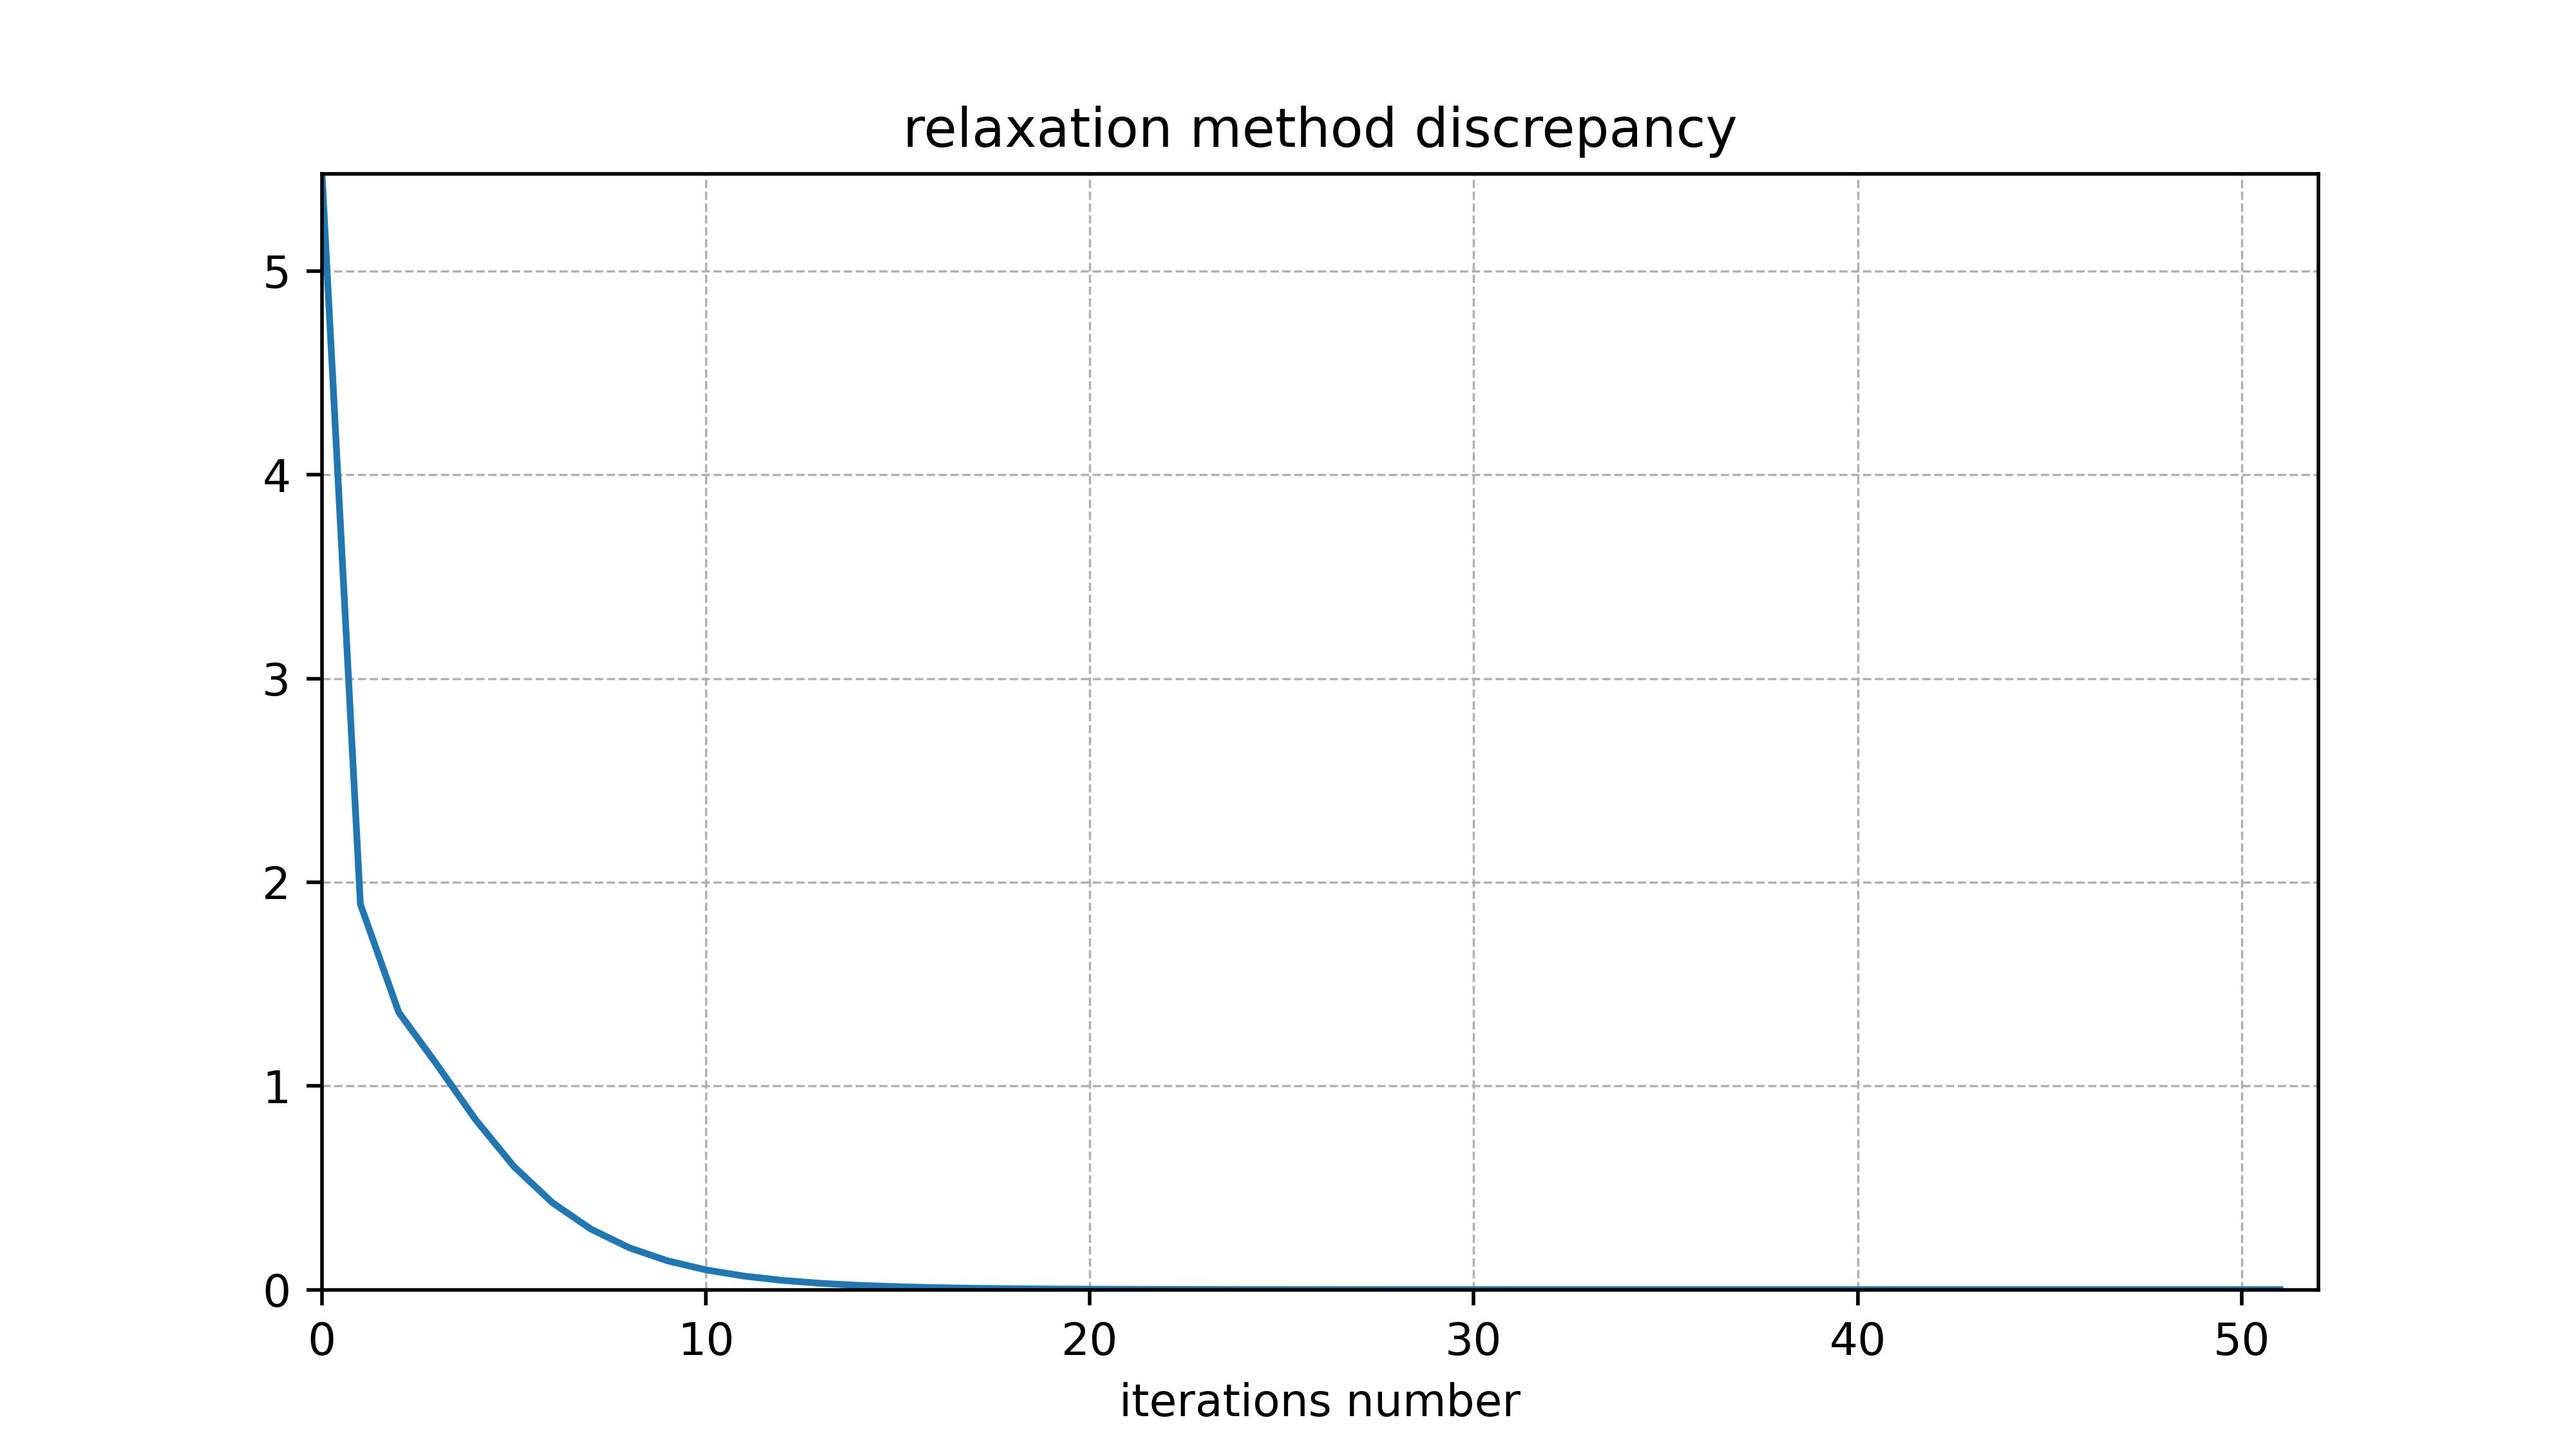
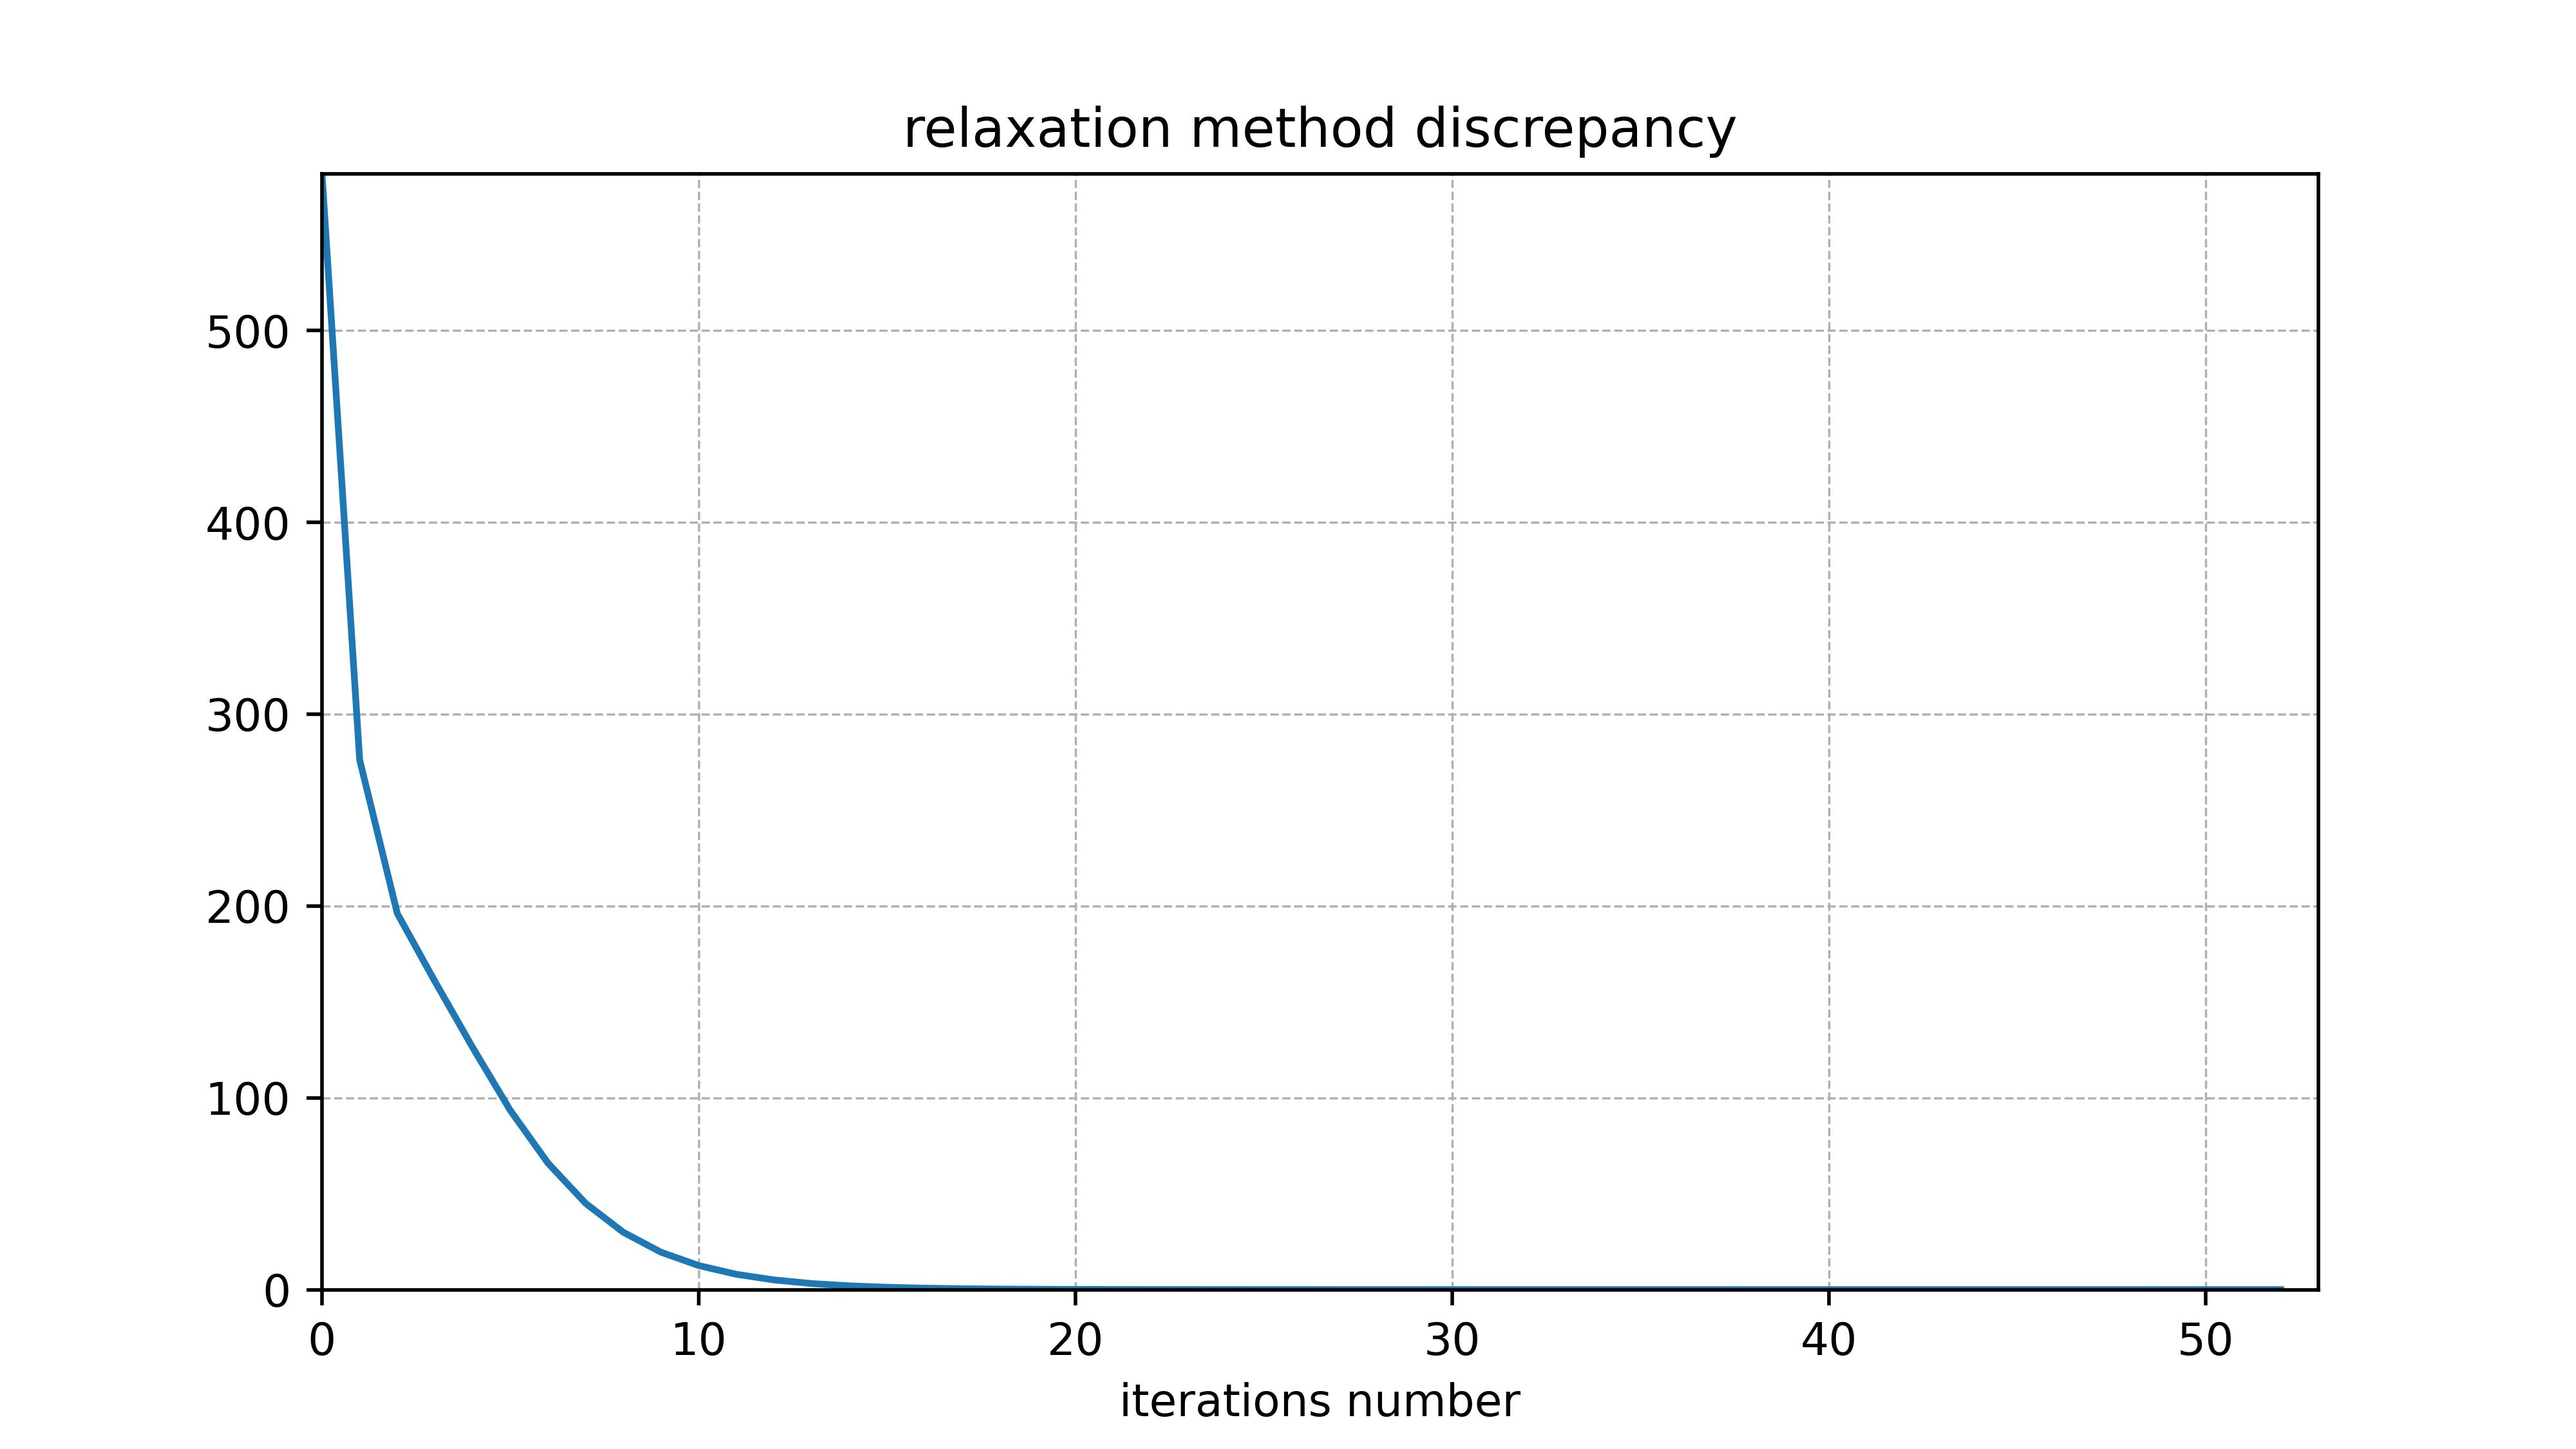
Lab2: Fixed bugs. Added README

diff --git a/lab2/succ_over_relaxation.py b/lab2/succ_over_relaxation.py
@@ -4,7 +4,7 @@ from scipy import linalg
 from matrix_init import _initMatrix_, _initValue_, m_getErrorMatrixNorm,\
                         builPlot
 
-residual_convergence = 1e-8
+SIGMA = 1e-8
 
 def sor_solver(A, b, omega, initial_guess, convergence_criteria):
     """
@@ -20,7 +20,8 @@ def sor_solver(A, b, omega, initial_guess, convergence_criteria):
     """
     step = 0
     phi = initial_guess[:]
-    residual = linalg.norm(A @ phi - b)  # Initial residual
+    
+    residual = m_getErrorMatrixNorm(A, initial_guess, b)#linalg.norm(A @ phi - b)  # Initial residual
     
     all_errors_list = []
     
@@ -53,7 +54,9 @@ b = np.array(_initValue_())
 
 initial_guess = np.zeros_like(b, np.float_)
 
-phi = sor_solver(A, b, omega, initial_guess, residual_convergence)
-print(phi)
+phi = sor_solver(A, b, omega, initial_guess, SIGMA)
+
+print(f"Solution: {phi}")
+print(f'error value:{m_getErrorMatrixNorm(A, phi, b)}')
 
 

diff --git a/lab2/seidel_method.py b/lab2/seidel_method.py
@@ -4,6 +4,8 @@ import matplotlib.pyplot as plt
 from matrix_init import _initMatrix_, _initValue_, m_getErrorMatrixNorm,\
                         builPlot
 
+SIGMA = 1e-8
+
 ITERATION_LIMIT = 1000
 
 all_errors_list = []
@@ -33,7 +35,8 @@ for it_count in range(1, ITERATION_LIMIT):
         s2 = np.dot(A[i, i + 1 :], x[i + 1 :])
         x_new[i] = (b[i] - s1 - s2) / A[i, i]
     
-    if np.allclose(x, x_new, rtol=1e-8):
+    #if np.allclose(x, x_new, SIGMA=1e-8):
+    if m_getErrorMatrixNorm(A, x, b) <= SIGMA:
         break
     
     x = x_new
@@ -48,5 +51,4 @@ plt.show()
 builPlot(all_errors_list, 'seidel')
 
 print(f"Solution: {x}")
-error = np.dot(A, x) - b
-print(f'error value:{error}')
+print(f'error value:{m_getErrorMatrixNorm(A, x, b)}')

diff --git a/lab2/jacobi_method.py b/lab2/jacobi_method.py
@@ -4,6 +4,8 @@ import matplotlib.pyplot as plt
 from matrix_init import _initMatrix_, _initValue_
 from matrix_init import m_getErrorMatrixNorm, builPlot
 
+SIGMA = 1e-8
+
 ITERATION_LIMIT = 1000
 
 all_errors_list = []
@@ -36,7 +38,8 @@ for it_count in range(ITERATION_LIMIT):
         if x_new[i] == x_new[i-1]:
           break
 
-    if np.allclose(x, x_new, atol=1e-8, rtol=0.):
+    #if np.allclose(x, x_new, atol=1e-8, rtol=0.):
+    if m_getErrorMatrixNorm(A, x, b) <= SIGMA:
         break
 
     x = x_new
@@ -51,7 +54,6 @@ plt.show()
 builPlot(all_errors_list, 'jacobi')
 
 print(f"Solution: {x}")
-error = np.dot(A, x) - b
-print(f'error value:{error}')
+print(f'error value:{m_getErrorMatrixNorm(A, x, b)}')
 
 

diff --git a/lab2/matrix_init.py b/lab2/matrix_init.py
@@ -9,7 +9,7 @@ def DEBUG(param, description='NULL'):
 def setAllZero(matrix, n, ind):
     matrix[ind].extend([0]*(n-ind-1))
 
-def _initMatrix_(n=3, a=1, b=5, c=1, p=1):
+def _initMatrix_(n=99, a=1, b=10, c=1, p=1):
     matrix = []
     
     for ind in range( n ):
@@ -27,10 +27,10 @@ def _initMatrix_(n=3, a=1, b=5, c=1, p=1):
     
     return matrix
 
-def _initValue_(n=3):
+def _initValue_(n=99):
     return [ ind+1 for ind in range( n+1 )]
 
-def initMatrix(n=3, a=1, b=5, c=1, p=1):
+def initMatrix(n=99, a=1, b=10, c=1, p=1):
     
     matrix = _initMatrix_(n, a, b, c, p)
     

diff --git a/lab2/README.md b/lab2/README.md
@@ -1,7 +1,62 @@
+# Report of 2nd Laboratory
+"***This world is like an unsolved linear equation – if you calculate the values of all variables, randomness will turn out to be a pattern.***" - Nika Ostozheva.
 
-# Lab2: matrix solving
-install `scipy`
-
+## Warning
+Before using install `scipy`
 ```
 pip install scipy
 ```
+
+## Methodology
+
+Various methods can be used to solve linear equations, and methods are given in this paper:
+
+The accuracy criterion for all iterative methods is selected as $1 \cdot 10^{-8}$.
+
+This work also uses Gauss and LU decomposition methods.
+
+#### System of equations:
+
+$$
+\begin{cases} 
+b_1 x_1 + c_1 x_2 = f_1 \\
+a_2 x_1 + b_2 x_2 + c_2 x_3 = f_2 \\
+a_3 x_1 + b_3 x_2 + c_3 x_3 = f_3 \\
+... \\
+a_n x_{n-1} + b_n x_n + c_n x_{n+1} = f_n \\
+p_1 x_1 + ... + p_{n+1} x_{n+1} = f_{n+1} \\
+\begin{cases}
+n = 99 \\
+a_i = c_i = 1 \\
+b_i = 10 \\
+p_i = 1 \\
+f_i = i
+\end{cases}
+\end{cases}
+$$
+
+#### Conclusion:
+Error values
+
+| Method     |             Error rate              | Iteration number |
+| :--------- | :---------------------------------: | :--------------: |
+| Gauss      | $\sigma_G    = 1.01 \cdot 10^{-13}$ |        1         |
+| LU         | $\sigma_{LU} = 7.36 \cdot 10^{-14}$ |        1         |
+| Seidel     | $\sigma_{S}  = 4.86 \cdot 10^{-9}$  |        13        |
+| Jacobi     | $\sigma_{J}  = 8.87 \cdot 10^{-9}$  |        28        |
+| Relaxation | $\sigma_{R}  = 8.92 \cdot 10^{-9}$  |        53        |
+
+If $b = Ax$, than:
+
+$$\text{Error rate(norm)}  = E_i = \| b - Ax_{i}\|_3 = \newline
+= ((b - Ax_{i}) \cdot (b - Ax_{i})) = \sum_{k} \zeta_k^2$$
+
+$$k, i \in \mathbb{N}$$
+
+>[Back to Methodology](#methodology)
+
+![](img/seidel.jpg)
+![](img/jacobi.jpg)
+![](img/relaxation.jpg)
+
+>[Back to Methodology](#methodology)
